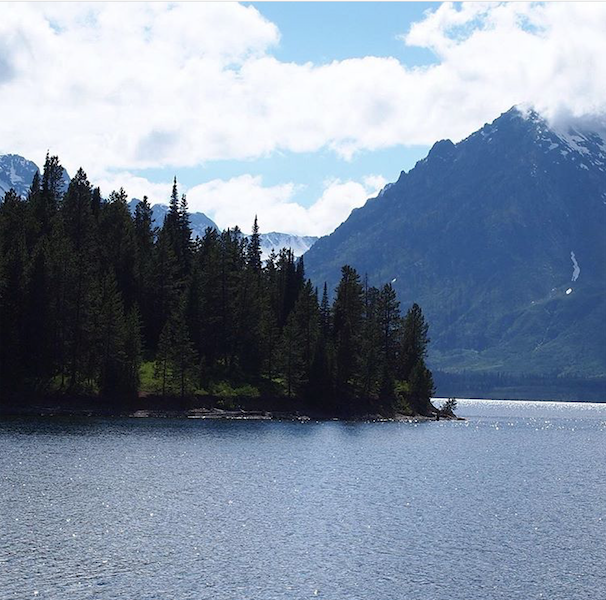
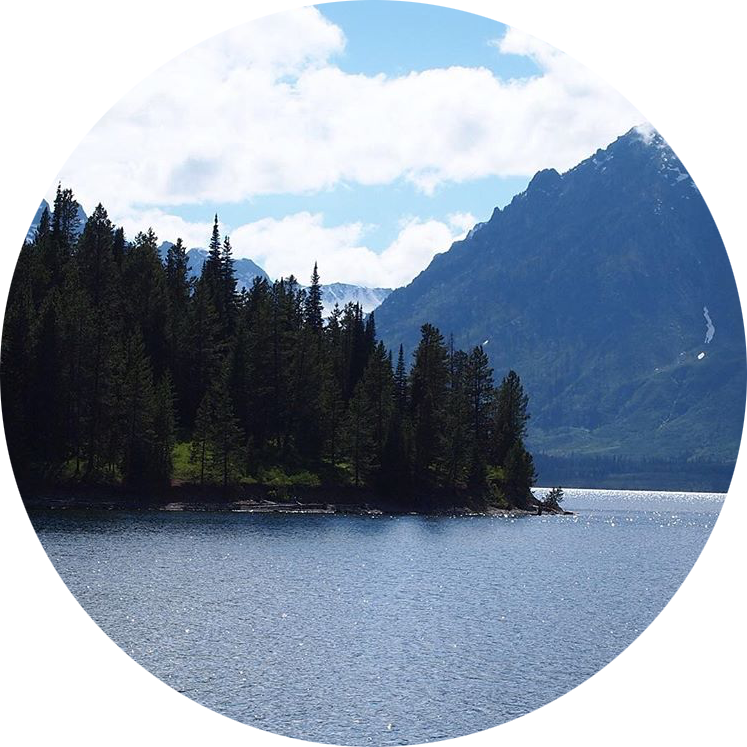
Updates

diff --git a/_layouts/default.html b/_layouts/default.html
@@ -4,7 +4,7 @@
 <meta charset="utf-8">
 <meta name="viewport" content="width=device-width, initial-scale=1, shrink-to-fit=no">
 
-<link rel="icon" href="{{ site.baseurl }}/assets/images/logo.png">
+<link rel="icon" href="{{ site.baseurl }}/assets/images/Teton.png">
 
 <title>{{ page.title }}</title>
 
